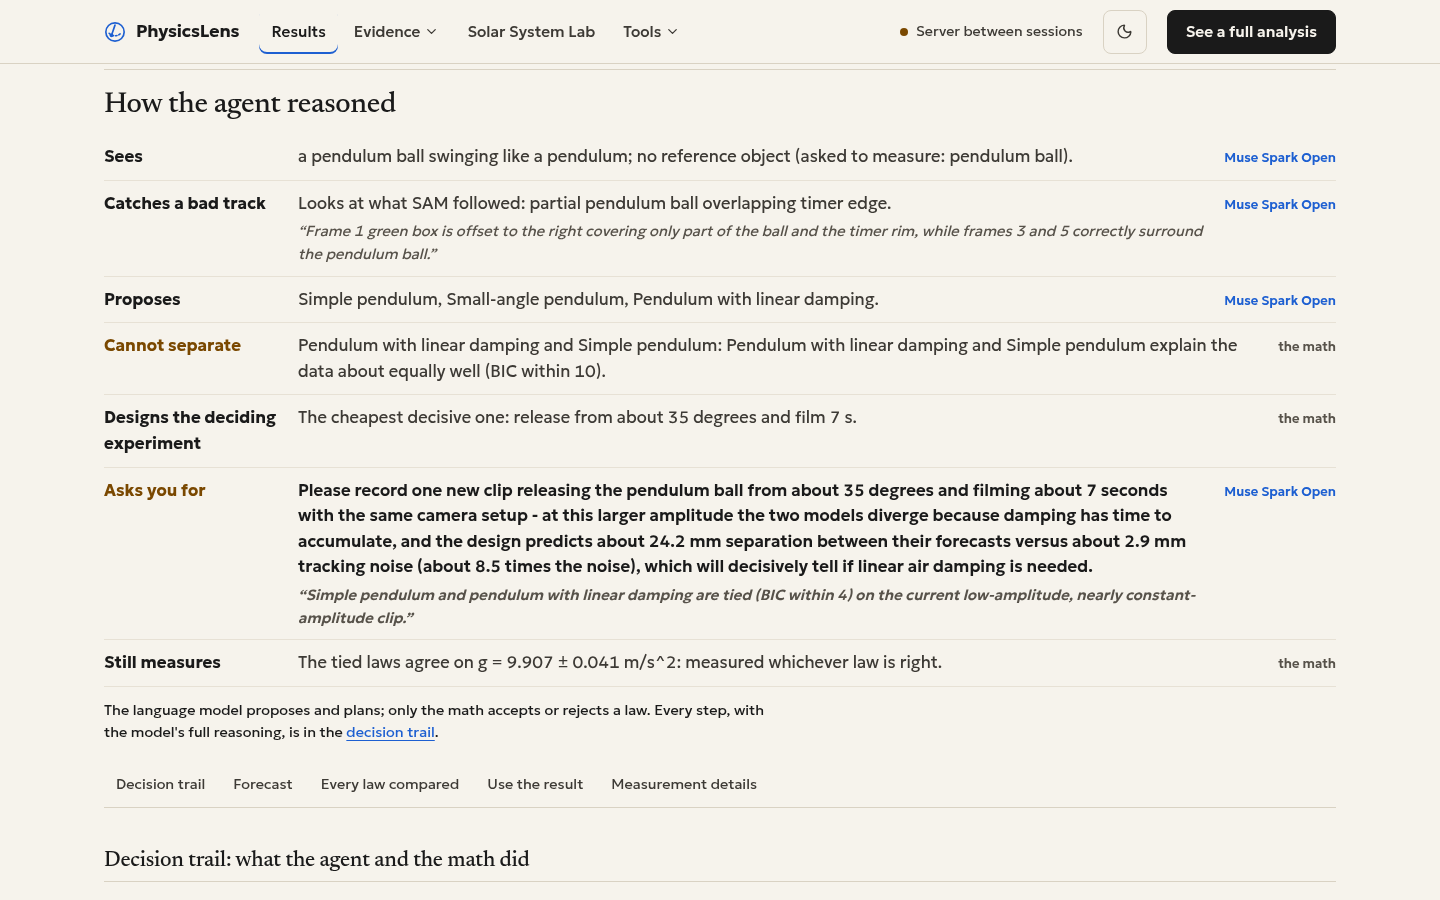
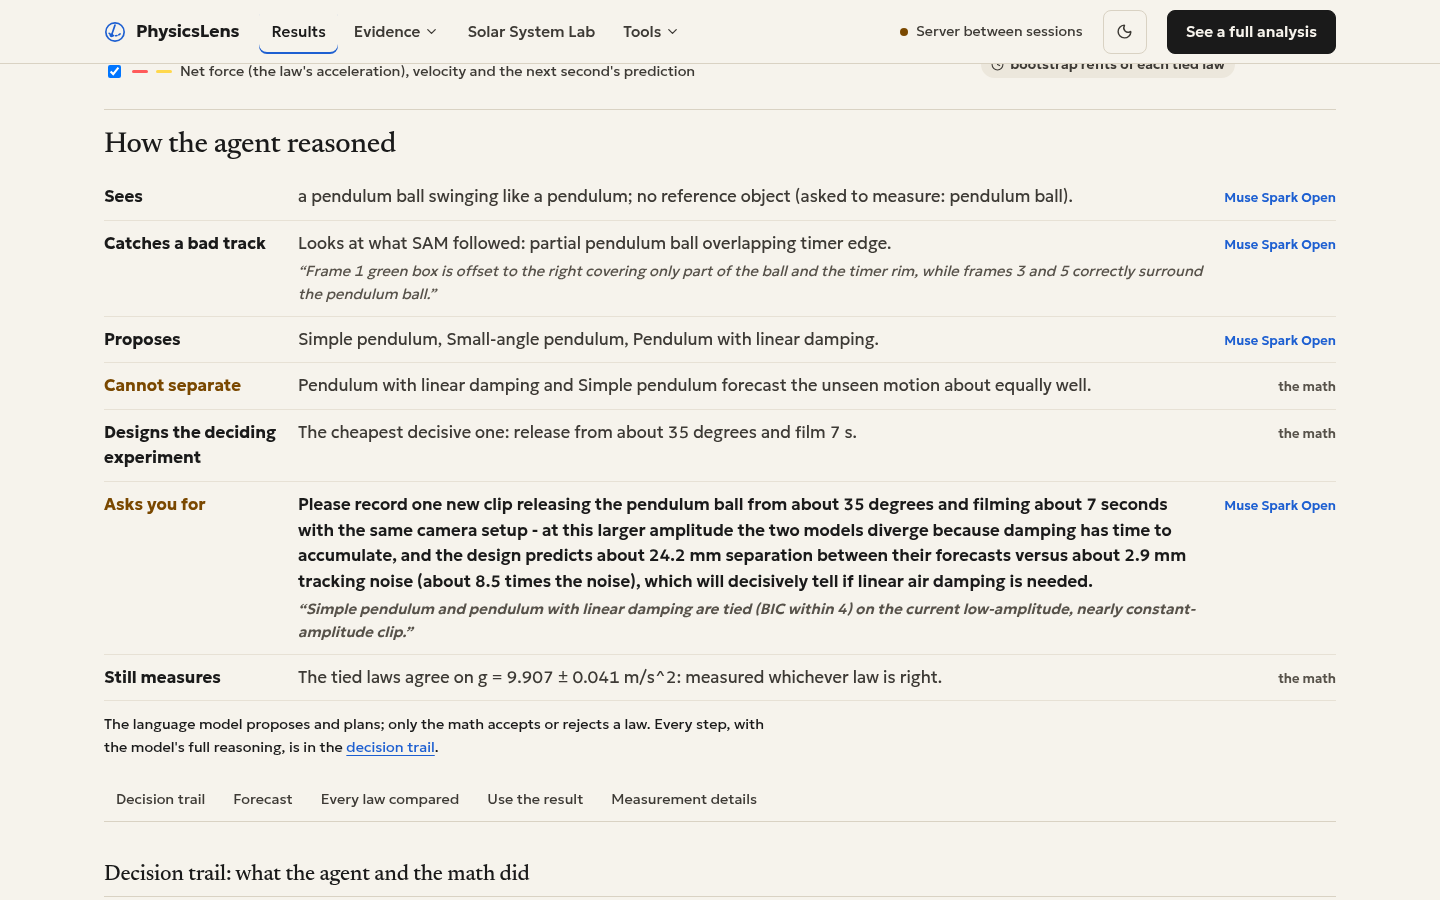
README screenshots retaken from the deployed build: home, the robot error chart with the fleet comparison, the reasoning panel, a result and the cases

diff --git a/README.md b/README.md
@@ -468,7 +468,7 @@ Every case at a glance (each row is generated from its result file; the same cas
 
 ### Open-source robot arm: its simulator corrected from public recordings (`/robot`)
 
-![One held-out episode of the SO-100: the public MuJoCo model drifts from the real joint, the corrected model tracks it](frontend/public/readme/robot-before-after.png)
+![One held-out SO-100 episode, error against the real shoulder joint: the public MuJoCo model (dashed) strays by up to about 3 degrees, the corrected model (blue) stays within about 1](frontend/public/readme/robot-before-after.png)
 
 The SO-100 is a widely used low-cost arm, and its public MuJoCo model (MuJoCo Menagerie `trs_so_arm100`) has
 guessed joint dynamics. `scripts/robot_demo.py` takes 50 public teleoperation episodes of the real arm
